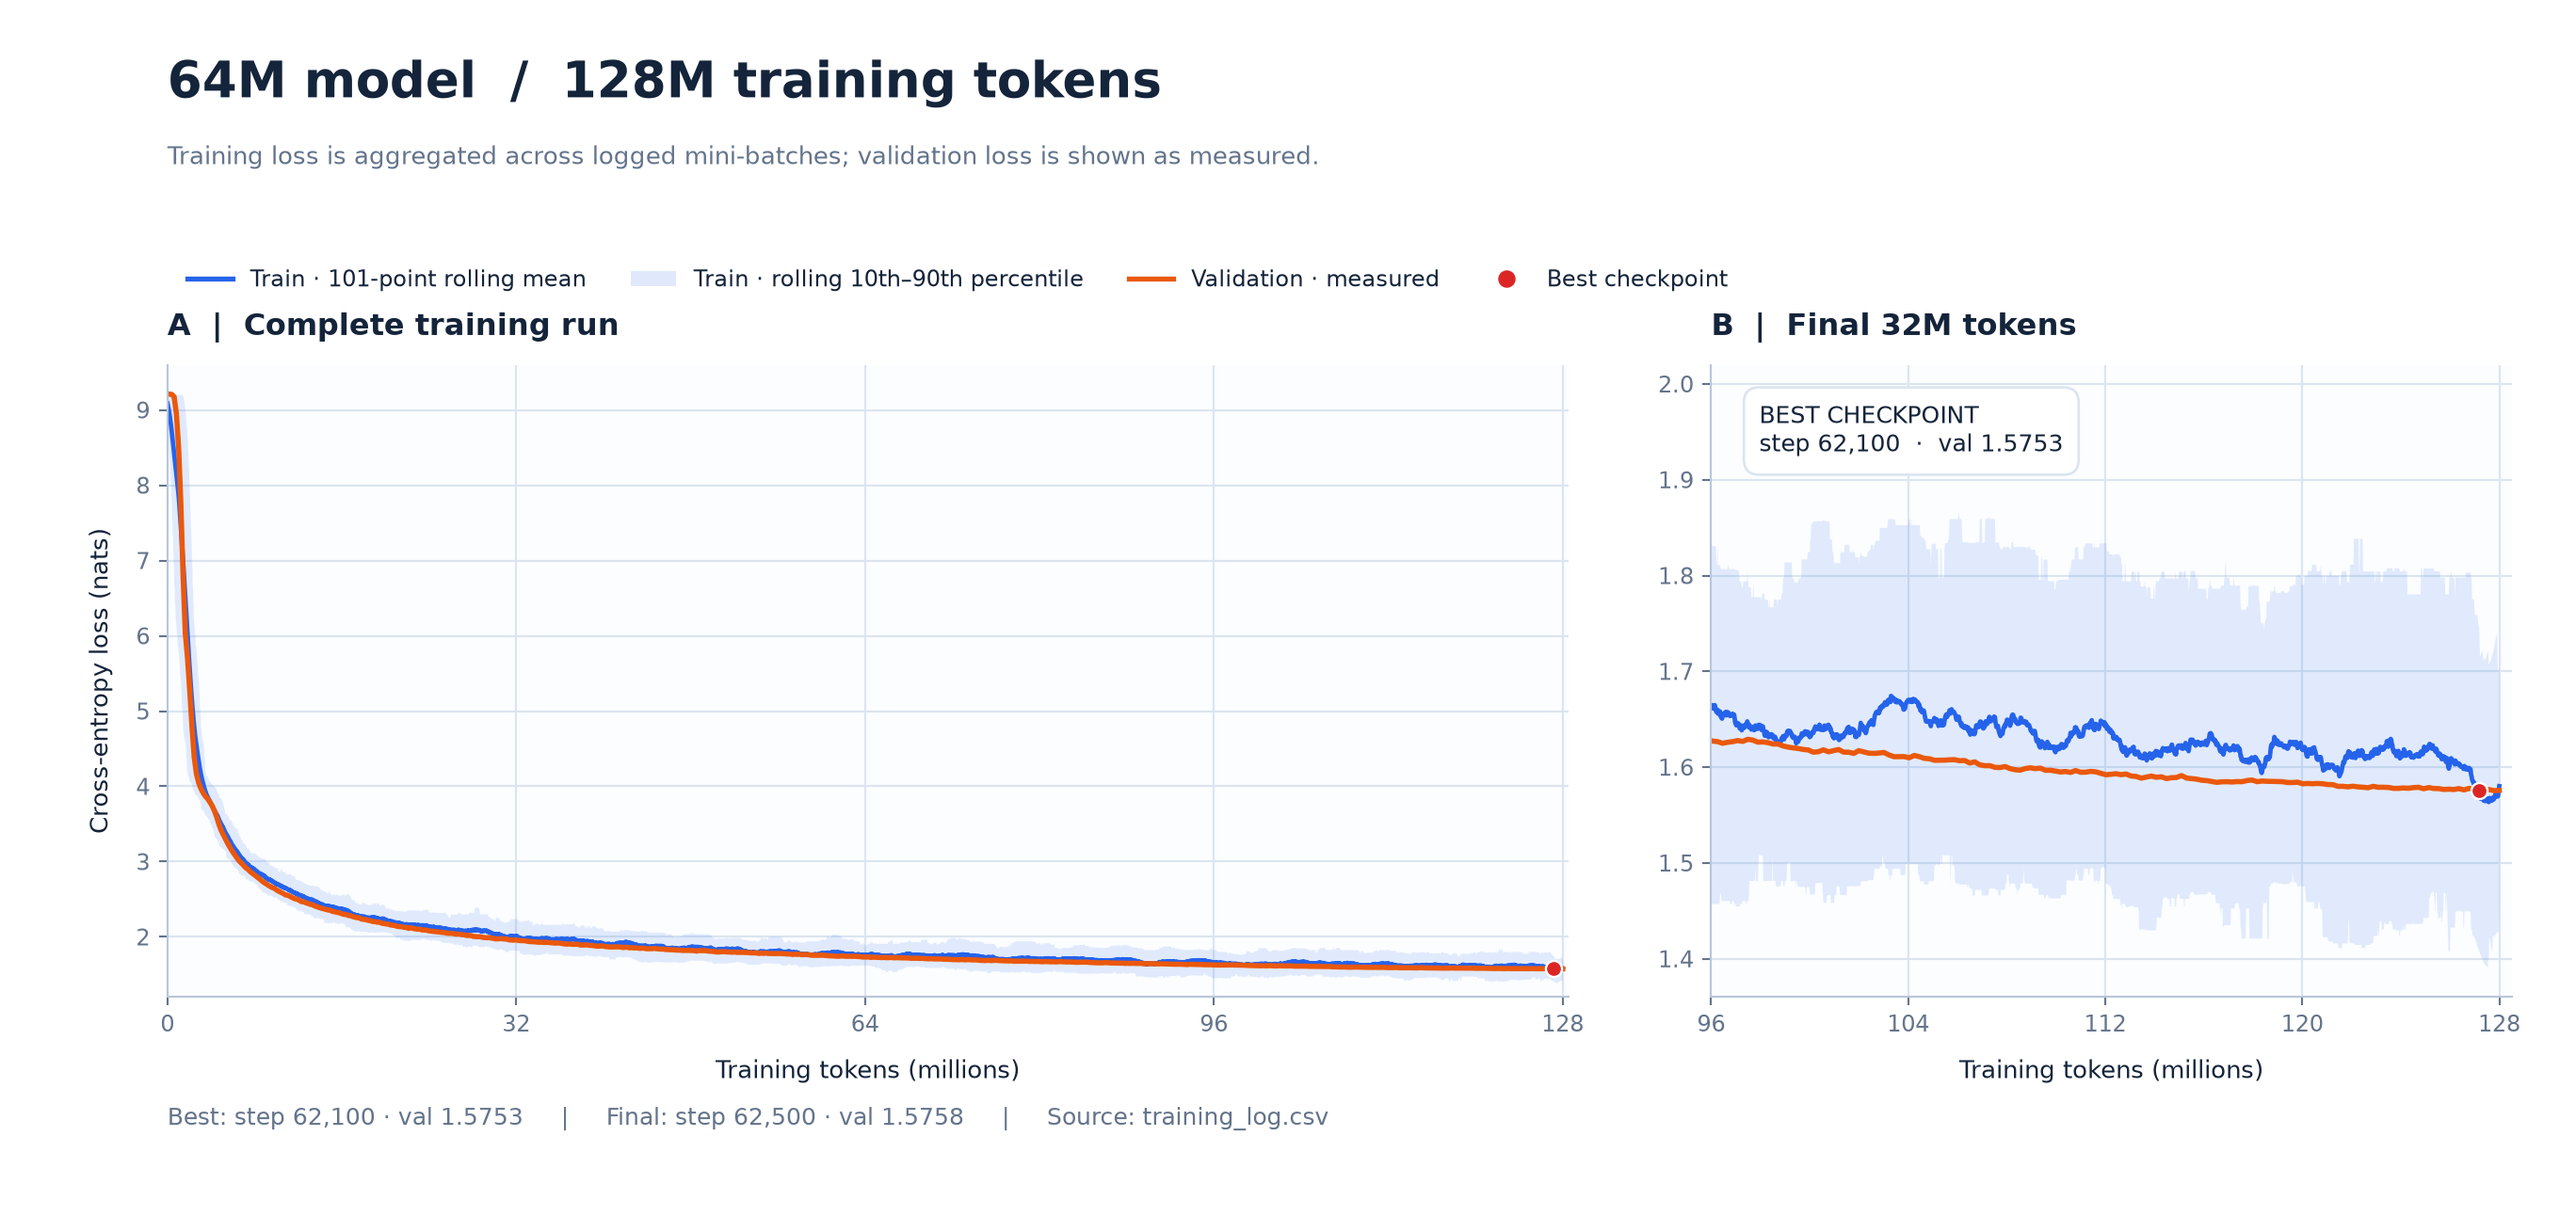
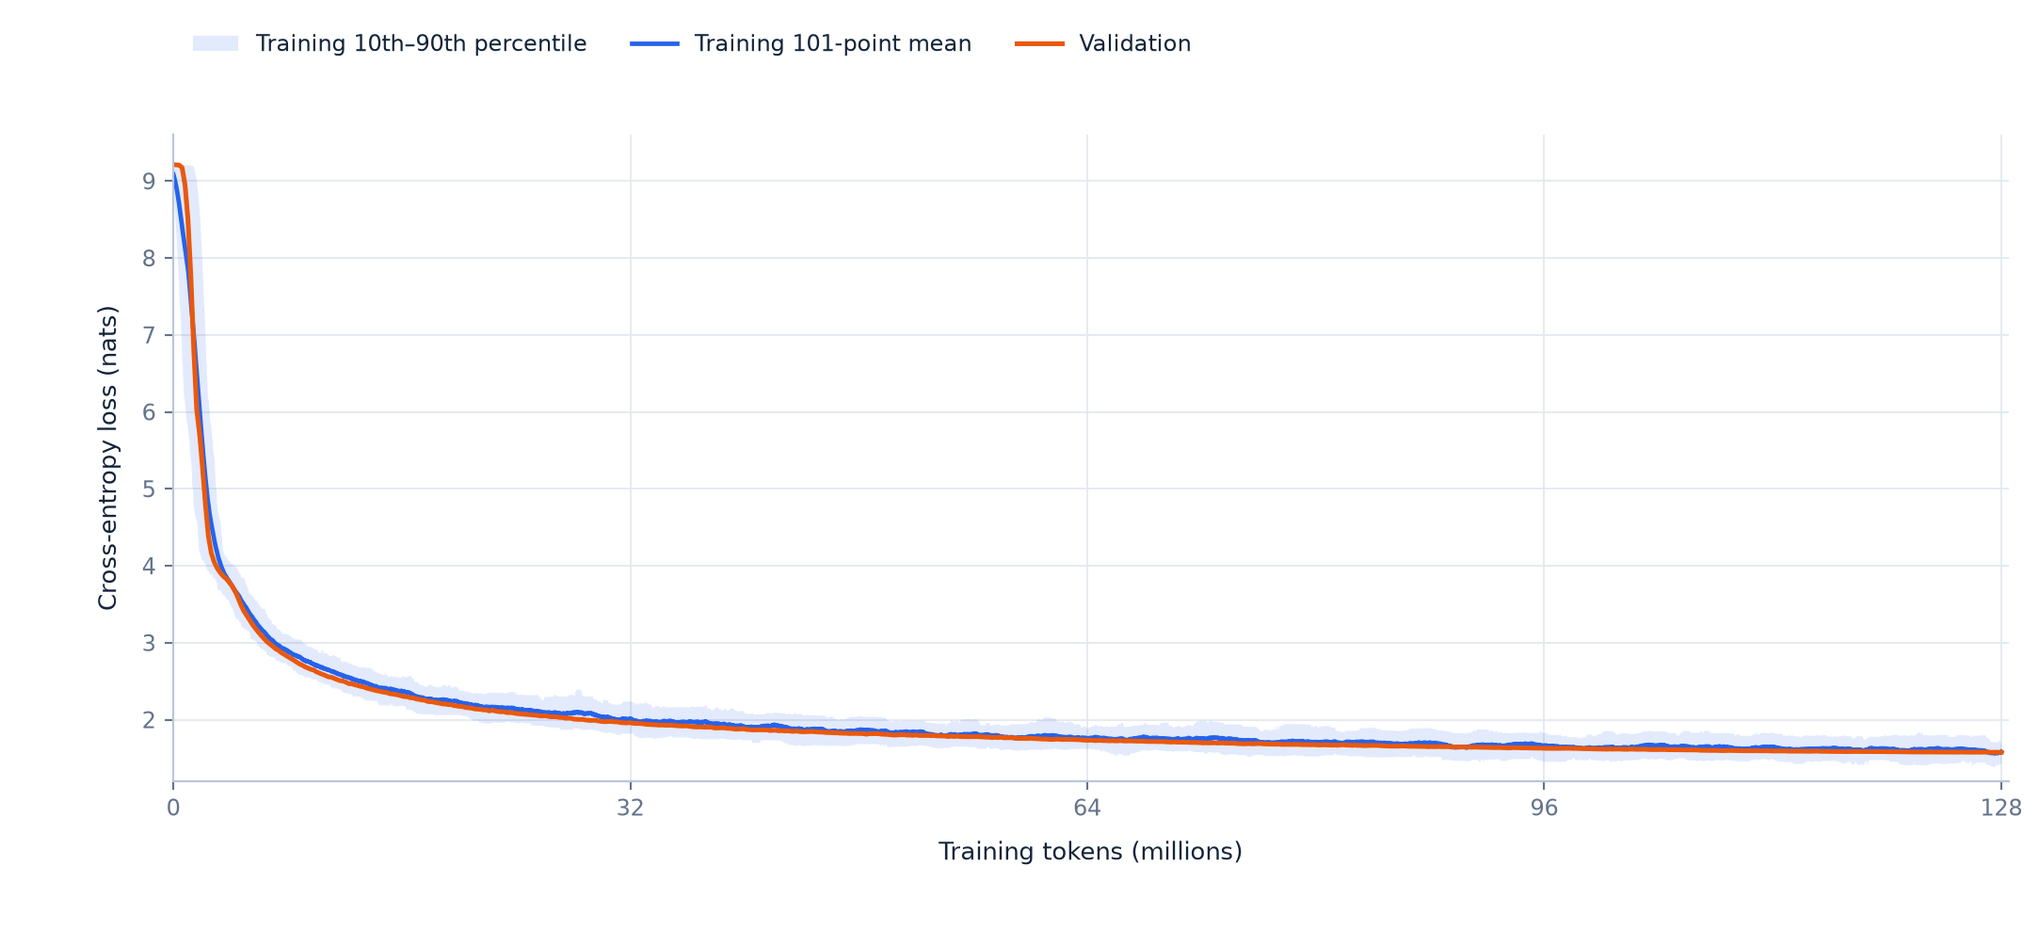
Simplify 64M training loss figure

diff --git a/scalling_exp/plot_64m_best_checkpoint.py b/scalling_exp/plot_64m_best_checkpoint.py
@@ -1,19 +1,17 @@
 """Plot the 64M / 128M training run directly from its published CSV.
 
-From assignment1-basics:
-    uv run --no-sync python scalling_exp/plot_64m_best_checkpoint.py
+Run from the repository root:
+    uv run --no-project --with matplotlib --with numpy python scalling_exp/plot_64m_best_checkpoint.py
 
 The blue band shows the 10th–90th percentiles of single-batch training loss
 within a rolling window of 101 logged points. The solid blue line is the
 rolling mean. Validation loss is plotted as measured, without smoothing.
-No checkpoint weights or private dataset are required to reproduce the plot.
+The published training_log.csv is the only data source.
 """
 from __future__ import annotations
 
 import argparse
 import csv
-import json
-import math
 from pathlib import Path
 
 import matplotlib
@@ -21,20 +19,16 @@ import matplotlib
 matplotlib.use("Agg")
 import matplotlib.pyplot as plt
 import numpy as np
-from matplotlib.lines import Line2D
-from matplotlib.patches import Patch
 
 DEFAULT_RUN = Path(__file__).resolve().parent / "64m_model" / "64m_128mtoken"
 WINDOW = 101
 BLUE = "#2563eb"
 ORANGE = "#ea580c"
-RED = "#dc2626"
 INK = "#14243a"
 MUTED = "#64748b"
 
 
 def read_run(run: Path):
-    result = json.loads((run / "result.json").read_text(encoding="utf-8"))
     train, validation = [], []
     with (run / "training_log.csv").open(newline="", encoding="utf-8") as stream:
         reader = csv.DictReader(stream)
@@ -55,16 +49,7 @@ def read_run(run: Path):
         raise ValueError("Training log contains non-finite values")
     if np.any(np.diff(train[:, 0]) <= 0) or np.any(np.diff(validation[:, 0]) <= 0):
         raise ValueError("Training log steps must increase strictly")
-    best_step = int(result["best_validation_step"])
-    best_loss = float(result["best_validation_loss"])
-    matched = validation[validation[:, 0] == best_step]
-    if len(matched) != 1 or not math.isclose(matched[0, 2], best_loss, abs_tol=1e-8):
-        raise ValueError("Best checkpoint does not match the validation log")
-    if int(validation[-1, 0]) != int(result["final_step"]):
-        raise ValueError("Final step does not match the validation log")
-    if not math.isclose(validation[-1, 2], result["final_validation_loss"], abs_tol=1e-8):
-        raise ValueError("Final validation loss does not match result.json")
-    return result, train, validation, matched[0, 1]
+    return train, validation
 
 
 def rolling_summary(loss: np.ndarray, window: int):
@@ -81,8 +66,8 @@ def rolling_summary(loss: np.ndarray, window: int):
 
 
 def style_axis(ax):
-    ax.set_facecolor("#fbfdff")
-    ax.grid(color="#dbe5f0", linewidth=0.8)
+    ax.set_facecolor("white")
+    ax.grid(color="#e4e9ef", linewidth=0.7)
     ax.set_axisbelow(True)
     for spine in ("top", "right"):
         ax.spines[spine].set_visible(False)
@@ -92,7 +77,7 @@ def style_axis(ax):
 
 
 def plot(run: Path):
-    result, train, validation, best_tokens = read_run(run)
+    train, validation = read_run(run)
     mean, lower, upper = rolling_summary(train[:, 2], WINDOW)
 
     plt.rcParams.update({
@@ -100,57 +85,23 @@ def plot(run: Path):
         "svg.fonttype": "none",
         "font.size": 10,
     })
-    fig = plt.figure(figsize=(14.4, 6.8), facecolor="white")
-    grid = fig.add_gridspec(
-        1, 2, width_ratios=(1.75, 1), left=0.065, right=0.975,
-        top=0.70, bottom=0.18, wspace=0.13,
-    )
-    full, zoom = (fig.add_subplot(grid[0, i]) for i in range(2))
-    for ax in (full, zoom):
-        style_axis(ax)
-        ax.fill_between(train[:, 1], lower, upper, color=BLUE, alpha=0.12, linewidth=0)
-        ax.plot(train[:, 1], mean, color=BLUE, linewidth=1.8)
-        ax.plot(validation[:, 1], validation[:, 2], color=ORANGE, linewidth=2.1)
-        ax.scatter([best_tokens], [result["best_validation_loss"]],
-                   s=42, color=RED, edgecolor="white", linewidth=0.9, zorder=7)
-        ax.set_xlabel("Training tokens (millions)", color=INK, labelpad=9)
-
-    full.set_xlim(0, 128.5)
-    full.set_ylim(1.2, 9.6)
-    full.set_xticks((0, 32, 64, 96, 128))
-    full.set_ylabel("Cross-entropy loss (nats)", color=INK, labelpad=9)
-    full.set_title("A  |  Complete training run", loc="left", color=INK, weight="bold", pad=12)
-
-    zoom.set_xlim(96, 128.5)
-    zoom.set_ylim(1.36, 2.02)
-    zoom.set_xticks((96, 104, 112, 120, 128))
-    zoom.set_title("B  |  Final 32M tokens", loc="left", color=INK, weight="bold", pad=12)
-    zoom.annotate(
-        f"BEST CHECKPOINT\nstep {int(result['best_validation_step']):,}  ·  val {result['best_validation_loss']:.4f}",
-        xy=(best_tokens, result["best_validation_loss"]), xycoords="data",
-        xytext=(0.06, 0.94), textcoords="axes fraction",
-        ha="left", va="top", fontsize=9.5, color=INK,
-        bbox=dict(boxstyle="round,pad=0.65", facecolor="white", edgecolor="#dbe5f0"),
-    )
-
-    fig.text(0.065, 0.92, "64M model  /  128M training tokens",
-             fontsize=20, weight="bold", color=INK)
-    fig.text(0.065, 0.865,
-             "Training loss is aggregated across logged mini-batches; validation loss is shown as measured.",
-             fontsize=10, color=MUTED)
-    handles = [
-        Line2D([0], [0], color=BLUE, lw=2, label=f"Train · {WINDOW}-point rolling mean"),
-        Patch(facecolor=BLUE, alpha=0.14, label="Train · rolling 10th–90th percentile"),
-        Line2D([0], [0], color=ORANGE, lw=2, label="Validation · measured"),
-        Line2D([0], [0], color=RED, marker="o", markersize=6, lw=0, label="Best checkpoint"),
-    ]
-    fig.legend(handles=handles, loc="upper left", bbox_to_anchor=(0.065, 0.795),
-               ncol=4, frameon=False, fontsize=9, labelcolor=INK)
-    fig.text(0.065, 0.075,
-             f"Best: step {int(result['best_validation_step']):,} · val {result['best_validation_loss']:.4f}"
-             f"     |     Final: step {int(result['final_step']):,} · val {result['final_validation_loss']:.4f}"
-             "     |     Source: training_log.csv",
-             fontsize=9.5, color=MUTED)
+    fig, ax = plt.subplots(figsize=(11.4, 5.2), facecolor="white")
+    fig.subplots_adjust(left=0.085, right=0.985, top=0.855, bottom=0.16)
+    style_axis(ax)
+    ax.fill_between(train[:, 1], lower, upper, color=BLUE, alpha=0.13,
+                    linewidth=0, label="Training 10th–90th percentile")
+    ax.plot(train[:, 1], mean, color=BLUE, linewidth=1.8,
+            label=f"Training {WINDOW}-point mean")
+    ax.plot(validation[:, 1], validation[:, 2], color=ORANGE,
+            linewidth=1.9, label="Validation")
+    ax.set_xlim(0, 128.5)
+    ax.set_ylim(1.2, 9.6)
+    ax.set_xticks((0, 32, 64, 96, 128))
+    ax.set_xlabel("Training tokens (millions)", color=INK, labelpad=8)
+    ax.set_ylabel("Cross-entropy loss (nats)", color=INK, labelpad=8)
+    handles, labels = ax.get_legend_handles_labels()
+    fig.legend(handles, labels, loc="upper left", bbox_to_anchor=(0.085, 0.985),
+               ncol=3, frameon=False, fontsize=9, labelcolor=INK)
 
     outputs = []
     for suffix in (".png",):

diff --git a/README.md b/README.md
@@ -2,19 +2,17 @@
 
 从零实现语言模型的组件、训练与评估。 
 目前已实现实验
-1. 64M 参数下训练最佳权重曲线
+1. 64M 参数下训练损失曲线
 2. 16组不同规模模型于训练数据对scaling law 进行观察
 3. 对Pre-norm(post-norm, no-norm), RoPE, FFN 进行四组消融实验
 
-## 64M 参数下训练最佳权重曲线
+## 64M 参数下训练损失曲线
 
 <p align="center">
   <a href="scalling_exp/64m_model/64m_128mtoken/best_checkpoint_training_curve.png">
-    <img src="scalling_exp/64m_model/64m_128mtoken/best_checkpoint_training_curve.png" alt="64M 参数模型在 128M token 预算下的训练与验证损失曲线，标出最佳检查点" width="96%">
+    <img src="scalling_exp/64m_model/64m_128mtoken/best_checkpoint_training_curve.png" alt="64M 参数模型在 128M token 预算下的训练与验证损失曲线" width="96%">
   </a>
 </p>
-
-64M 模型实际包含约 **66.1M** 参数，在 **128M tokens** 预算下训练。左侧展示完整训练轨迹，右侧放大最后 32M tokens 的收敛过程。最佳权重出现在第 **62,100 步**，验证损失为 **1.5753**；第 62,500 步结束时的验证损失为 **1.5758**。图表由[Matplotlib 绘图脚本](scalling_exp/plot_64m_best_checkpoint.py)读取[逐步训练记录](scalling_exp/64m_model/64m_128mtoken/training_log.csv)生成，数值与[实验结果](scalling_exp/64m_model/64m_128mtoken/result.json)一致。
 
 ## Scaling Law 探索 · 模型规模 × 训练 token
 
